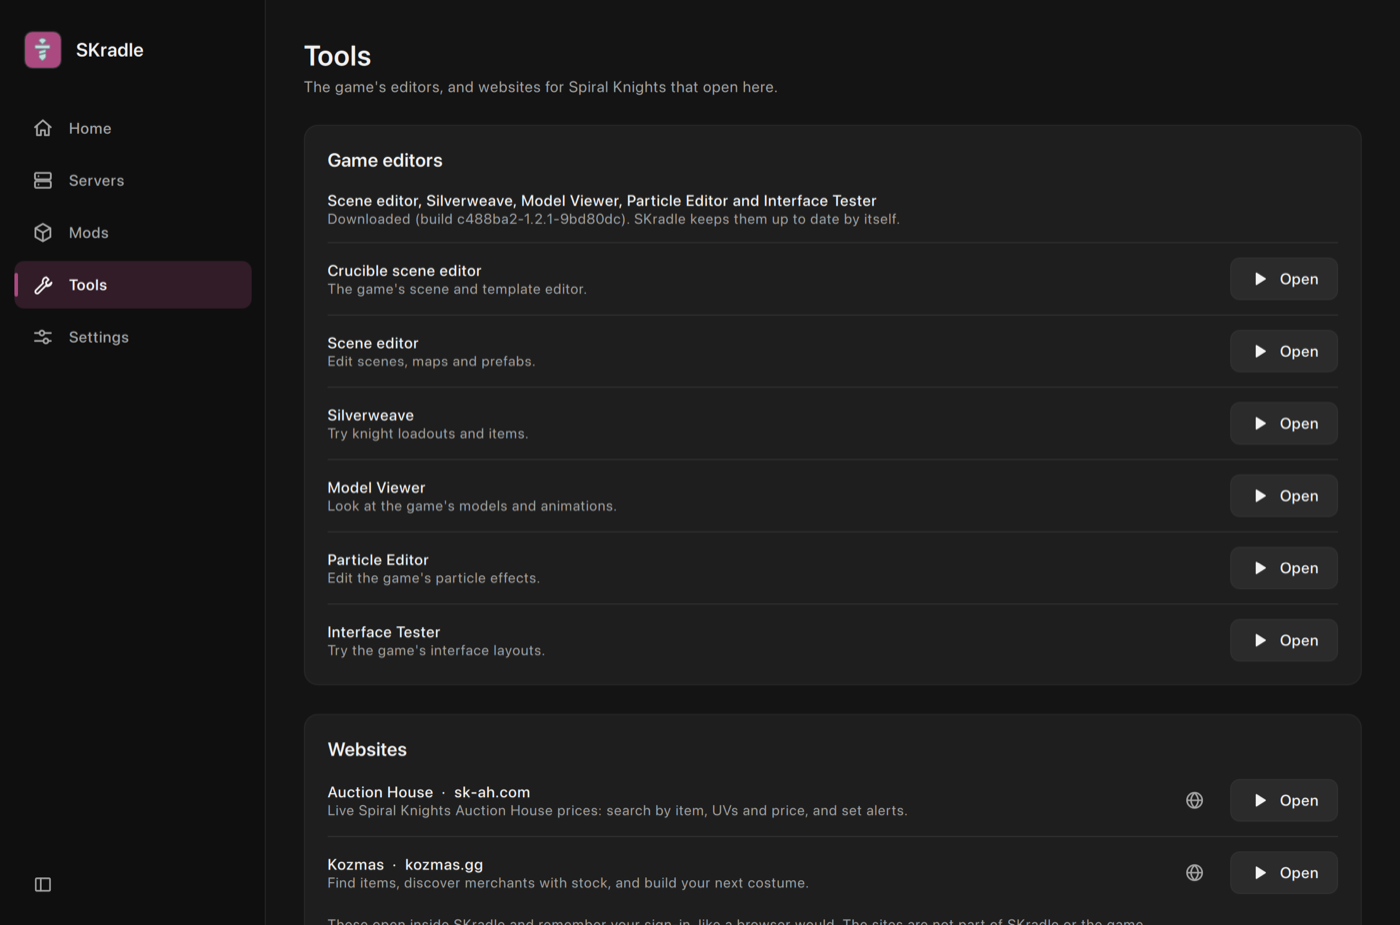
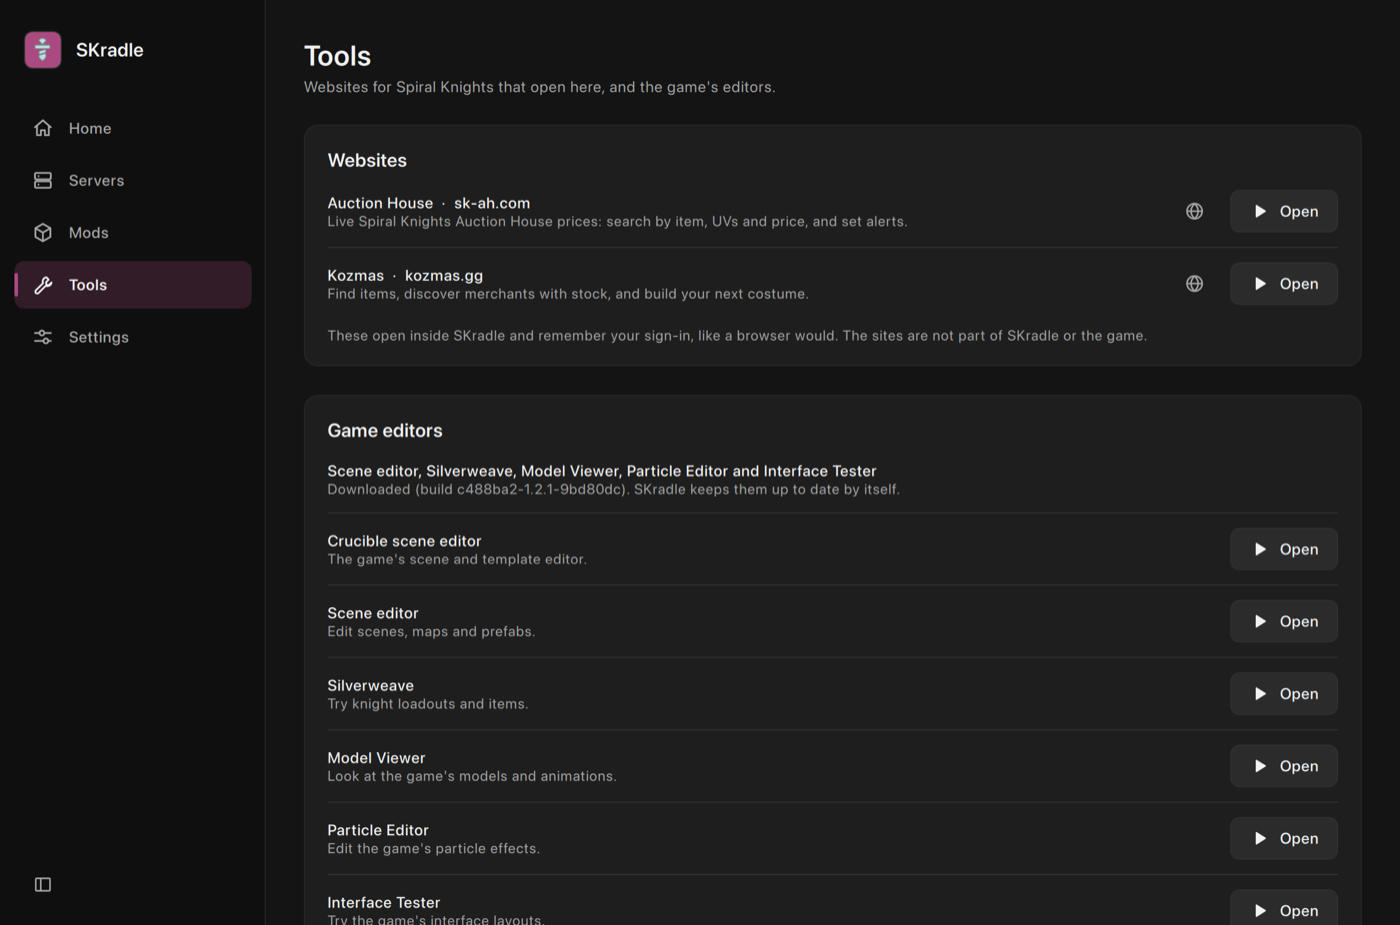
Tools page: websites above the game editors

diff --git a/app/qml/ToolsPage.qml b/app/qml/ToolsPage.qml
@@ -49,7 +49,47 @@ Item {
         anchors.fill: parent
         visible: page.webTool === ""
         title: qsTr("Tools")
-        subtitle: qsTr("The game's editors, and websites for Spiral Knights that open here.")
+        subtitle: qsTr("Websites for Spiral Knights that open here, and the game's editors.")
+
+        SettingsSection {
+            title: qsTr("Websites")
+            Repeater {
+                model: page.webTools
+                ColumnLayout {
+                    id: site
+                    required property int index
+                    required property var modelData
+                    Layout.fillWidth: true
+                    spacing: 0
+                    Sep { visible: site.index > 0 }
+                    SettingRow {
+                        label: site.modelData.name + "  ·  " + site.modelData.site
+                        hint: site.modelData.hint
+                        Item { Layout.fillWidth: true }
+                        IconButton {
+                            glyph: "globe"
+                            tip: qsTr("Open %1 in your browser").arg(site.modelData.site)
+                            onClicked: Qt.openUrlExternally(site.modelData.url)
+                        }
+                        SButton {
+                            text: qsTr("Open")
+                            glyph: "play"
+                            Accessible.name: qsTr("Open %1 here").arg(site.modelData.name)
+                            onClicked: page.webTool = site.modelData.id
+                        }
+                    }
+                }
+            }
+            Txt {
+                Layout.fillWidth: true
+                Layout.leftMargin: Theme.s5; Layout.rightMargin: Theme.s5; Layout.topMargin: Theme.s1; Layout.bottomMargin: Theme.s2
+                text: AppEnv.webViewAvailable
+                    ? qsTr("These open inside SKradle and remember your sign-in, like a browser would. The sites are not part of SKradle or the game.")
+                    : qsTr("This computer has no built-in web view, so the sites open in your browser, which keeps your sign-in as usual.")
+                kind: "caption"
+                paragraph: true
+            }
+        }
 
         SettingsSection {
             title: qsTr("Game editors")
@@ -112,47 +152,8 @@ Item {
                 }
             }
         }
-
-        SettingsSection {
-            title: qsTr("Websites")
-            Repeater {
-                model: page.webTools
-                ColumnLayout {
-                    id: site
-                    required property int index
-                    required property var modelData
-                    Layout.fillWidth: true
-                    spacing: 0
-                    Sep { visible: site.index > 0 }
-                    SettingRow {
-                        label: site.modelData.name + "  ·  " + site.modelData.site
-                        hint: site.modelData.hint
-                        Item { Layout.fillWidth: true }
-                        IconButton {
-                            glyph: "globe"
-                            tip: qsTr("Open %1 in your browser").arg(site.modelData.site)
-                            onClicked: Qt.openUrlExternally(site.modelData.url)
-                        }
-                        SButton {
-                            text: qsTr("Open")
-                            glyph: "play"
-                            Accessible.name: qsTr("Open %1 here").arg(site.modelData.name)
-                            onClicked: page.webTool = site.modelData.id
-                        }
-                    }
-                }
-            }
-            Txt {
-                Layout.fillWidth: true
-                Layout.leftMargin: Theme.s5; Layout.rightMargin: Theme.s5; Layout.topMargin: Theme.s1; Layout.bottomMargin: Theme.s2
-                text: AppEnv.webViewAvailable
-                    ? qsTr("These open inside SKradle and remember your sign-in, like a browser would. The sites are not part of SKradle or the game.")
-                    : qsTr("This computer has no built-in web view, so the sites open in your browser, which keeps your sign-in as usual.")
-                kind: "caption"
-                paragraph: true
-            }
-        }
     }
+
 
     // ---- one website, full page ----------------------------------------------------------------------------------
     ColumnLayout {

diff --git a/app/i18n/skradle_en.ts b/app/i18n/skradle_en.ts
@@ -2416,10 +2416,6 @@ Content URL: %4</source>
         <translation type="unfinished"></translation>
     </message>
     <message>
-        <source>The game&apos;s editors, and websites for Spiral Knights that open here.</source>
-        <translation type="unfinished"></translation>
-    </message>
-    <message>
         <source>Game editors</source>
         <translation type="unfinished"></translation>
     </message>
@@ -2557,6 +2553,10 @@ Content URL: %4</source>
     </message>
     <message>
         <source>Websites</source>
+        <translation type="unfinished"></translation>
+    </message>
+    <message>
+        <source>Websites for Spiral Knights that open here, and the game&apos;s editors.</source>
         <translation type="unfinished"></translation>
     </message>
     <message>
